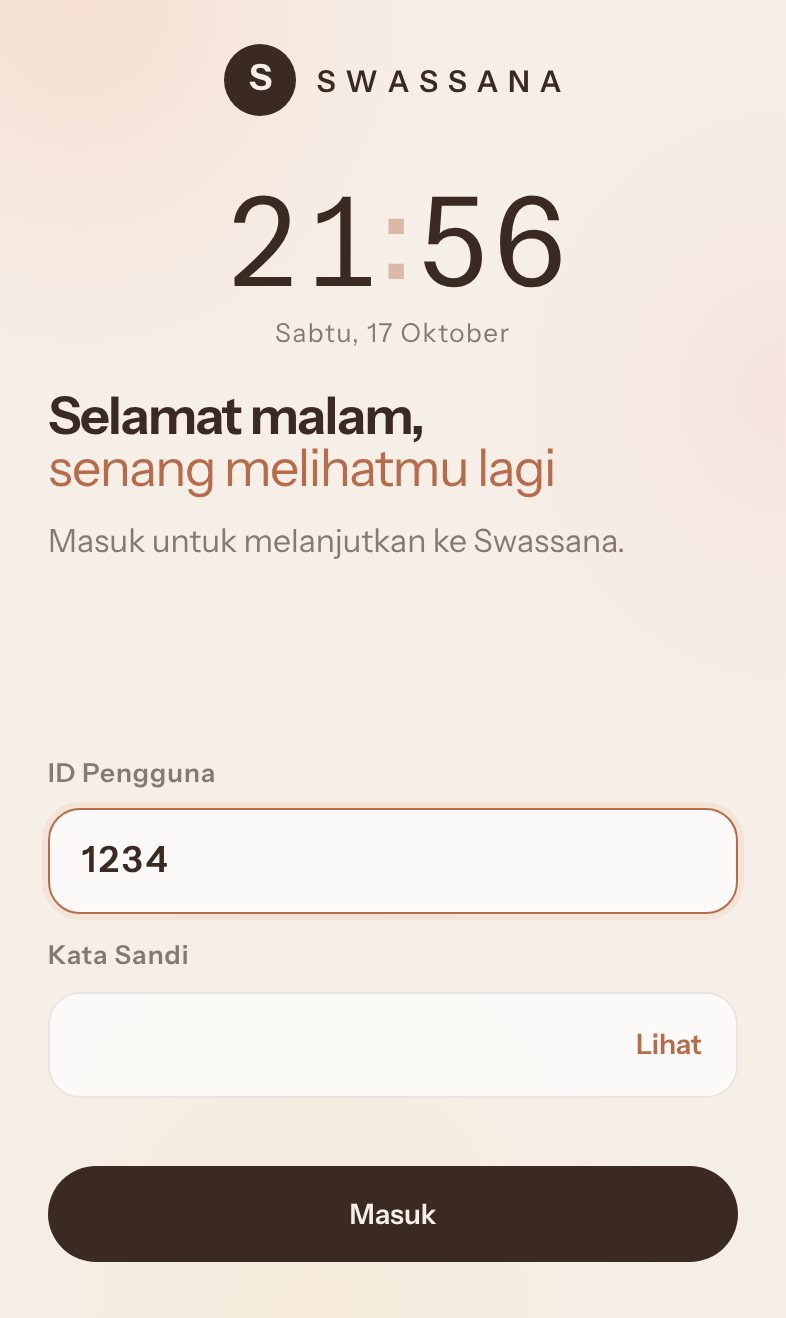
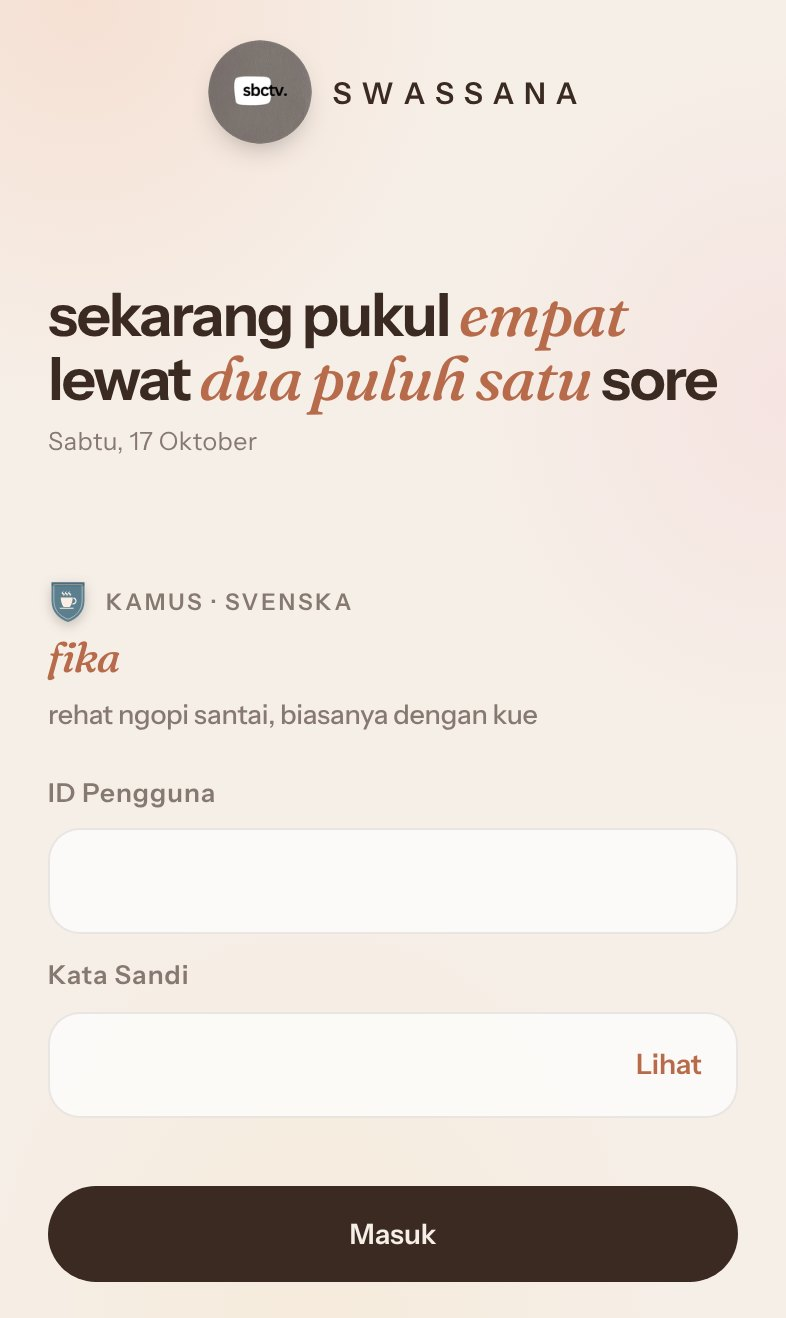
Fika opens the greeting rotation; English labelled British; new login screenshot
The first greeting is always the Swedish kamus word fika, then the
rotation continues. The English entry is labelled British (en-GB).
Showcase login panel uses the new login screenshot.

Claude-Session: https://claude.ai/code/session_01NtCyvoDvjHFmUSFRxXKysP

diff --git a/js/login.js b/js/login.js
@@ -137,7 +137,7 @@ const HELLO = [
   { tag: 'Jawa', lang: 'jv', hi: 'Sugeng rawuh', sub: 'monggo pinarak' },
   { tag: 'Nederlands', lang: 'nl', hi: 'Hoi', sub: 'fijn je weer te zien' },
   { tag: 'Sunda', lang: 'su', hi: 'Wilujeng sumping', sub: 'kumaha damang?' },
-  { tag: 'English', lang: 'en', hi: 'Hello there', sub: 'good to see you again' },
+  { tag: 'British', lang: 'en', hi: 'Hello there', sub: 'lovely to see you again' },
   { tag: 'Bali', lang: 'ban', hi: 'Om Swastyastu', sub: 'rahajeng rauh' },
   { tag: 'Deutsch', lang: 'de', hi: 'Hallo', sub: 'schön, dich wiederzusehen' },
   { tag: 'Madura', lang: 'mad', hi: 'Salamet dhâteng', sub: 'ponapa kabhârrâ?' },
@@ -173,9 +173,9 @@ const KAMUS = [
   ['Français', 'fr', 'joie de vivre', 'kegembiraan menikmati hidup'],
   ['Français', 'fr', 'flâneur', 'orang yang berjalan santai menikmati kota'],
   ['Français', 'fr', 'dépaysement', 'rasa asing yang menyegarkan di tempat baru'],
-  ['English', 'en', 'serendipity', 'menemukan hal baik secara kebetulan'],
-  ['English', 'en', 'golden hour', 'cahaya hangat saat matahari terbit dan terbenam'],
-  ['English', 'en', 'wanderlust', 'keinginan kuat untuk menjelajah dunia'],
+  ['British', 'en', 'serendipity', 'menemukan hal baik secara kebetulan'],
+  ['British', 'en', 'golden hour', 'cahaya hangat saat matahari terbit dan terbenam'],
+  ['British', 'en', 'wanderlust', 'keinginan kuat untuk menjelajah dunia'],
   ['日本語 · Nihongo', 'ja', 'komorebi 木漏れ日', 'sinar matahari yang menembus dedaunan'],
   ['日本語 · Nihongo', 'ja', 'ichigo ichie 一期一会', 'tiap pertemuan hanya sekali; hargai momennya'],
   ['日本語 · Nihongo', 'ja', 'wabi-sabi 侘寂', 'indah dalam kesederhanaan dan ketidaksempurnaan'],
@@ -186,15 +186,17 @@ function startHello(gate) {
   let turn = 0, li = 0, lastWord = -1;
   const show = () => {
     if (!gate.isConnected) return;
-    const dict = turn > 0 && turn % 3 === 2;
+    const dict = turn === 0 || turn % 3 === 2;
     if (dict) {
-      let k; do { k = Math.floor(Math.random() * KAMUS.length); } while (k === lastWord && KAMUS.length > 1);
+      let k;
+      if (turn === 0) k = KAMUS.findIndex(([, , w]) => w === 'fika'); // fika always opens the rotation
+      else do { k = Math.floor(Math.random() * KAMUS.length); } while (k === lastWord && KAMUS.length > 1);
       lastWord = k;
       const [tag, lang, word, mean] = KAMUS[k];
-      tagEl.innerHTML = `${crest(lang)}Kamus · ${tag}`; l1.textContent = word; l2.textContent = mean; h1.lang = lang;
+      tagEl.innerHTML = `${crest(lang)}Kamus · ${tag}`; l1.textContent = word; l2.textContent = mean; h1.lang = lang === 'en' ? 'en-GB' : lang;
     } else {
       const g = HELLO[li % HELLO.length]; li++;
-      tagEl.innerHTML = `${crest(g.lang)}${g.tag}`; l1.textContent = g.hi + ','; l2.textContent = g.sub; h1.lang = g.lang;
+      tagEl.innerHTML = `${crest(g.lang)}${g.tag}`; l1.textContent = g.hi + ','; l2.textContent = g.sub; h1.lang = g.lang === 'en' ? 'en-GB' : g.lang;
     }
     h1.classList.toggle('dict', dict);
     if (!reduce) { [tagEl, h1].forEach((el) => { el.classList.remove('swap'); void el.offsetWidth; el.classList.add('swap'); }); }

diff --git a/showcase.html b/showcase.html
@@ -244,7 +244,7 @@
       ['kuis', 'Kamu tipe apa?', 'Temukan studiomu.', '#f1e6f6', '#d9c3ec'],
       ['photobooth', 'Bingkai khas.', 'Langsung ke Story.', '#e5eef8', '#bfd5ef'],
       ['tampilan', 'Empat nuansa.', 'Pilih milikmu.', '#f7ebe0', '#e6cdb4'],
-      ['login', 'Jam pun', 'ikut menyapa.', '#f9e6dc', '#f0c4ae'],
+      ['login', 'Halo dalam 11 bahasa.', 'Dimulai dari fika.', '#f9e6dc', '#f0c4ae'],
     ];
     const words = (s, start) => s.split(' ').map((w, i) => `<span class="w" style="--wi:${start + i}">${w}</span>`).join(' ');
     $('track').innerHTML = PANELS.map(([img, a, b, from, to], i) => `
